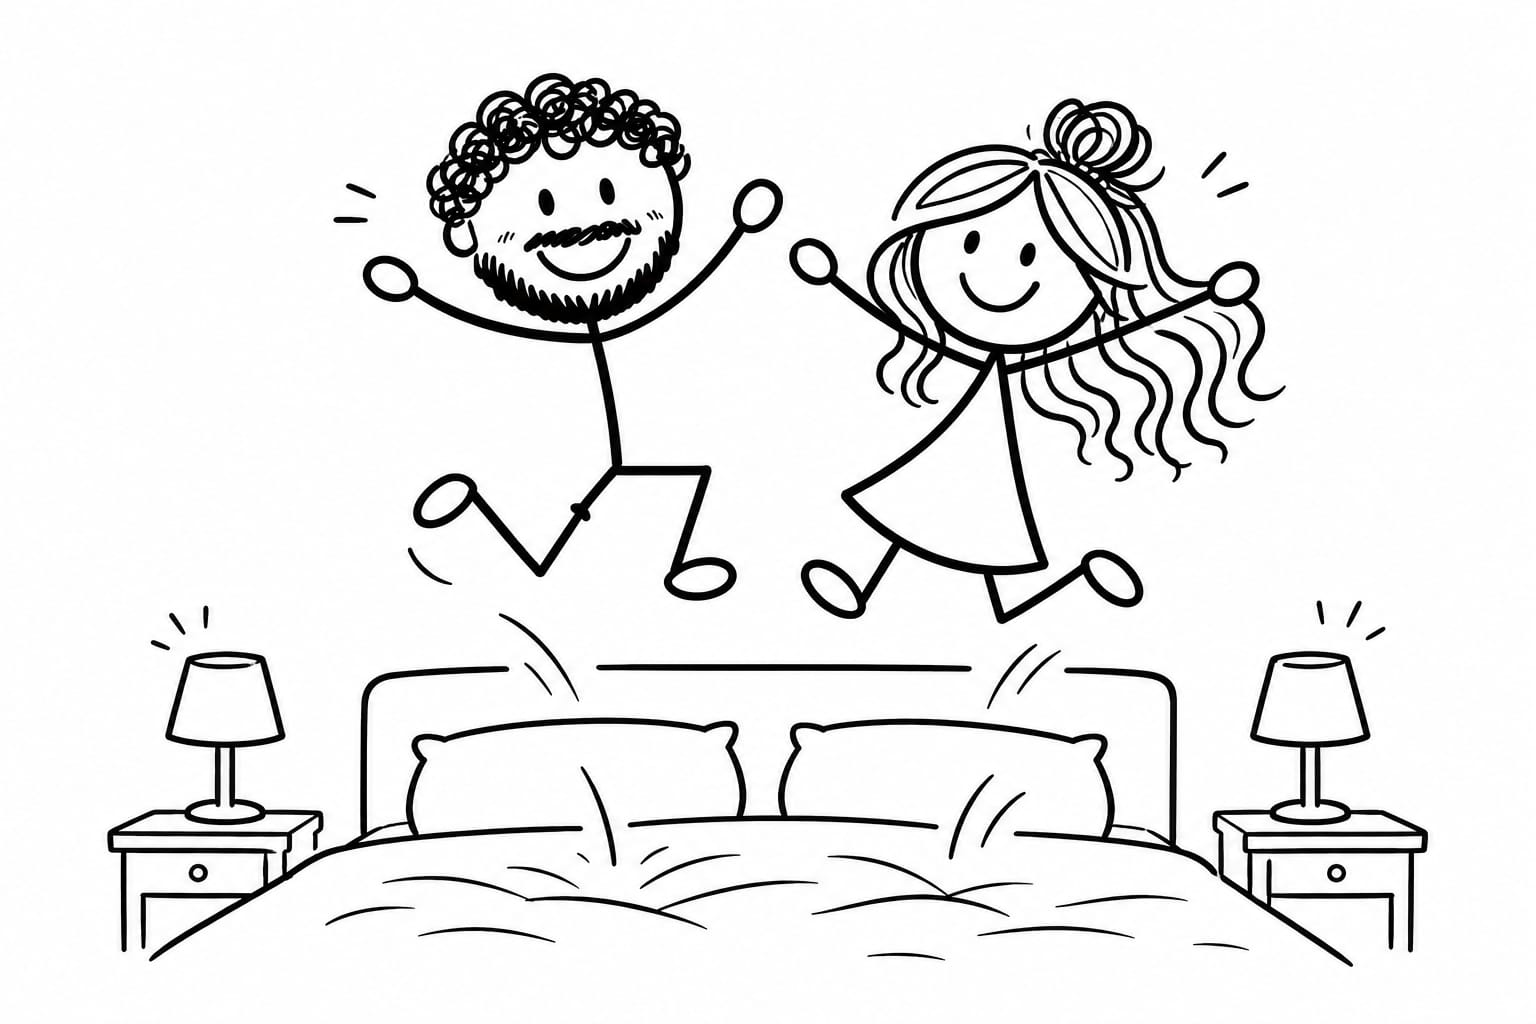
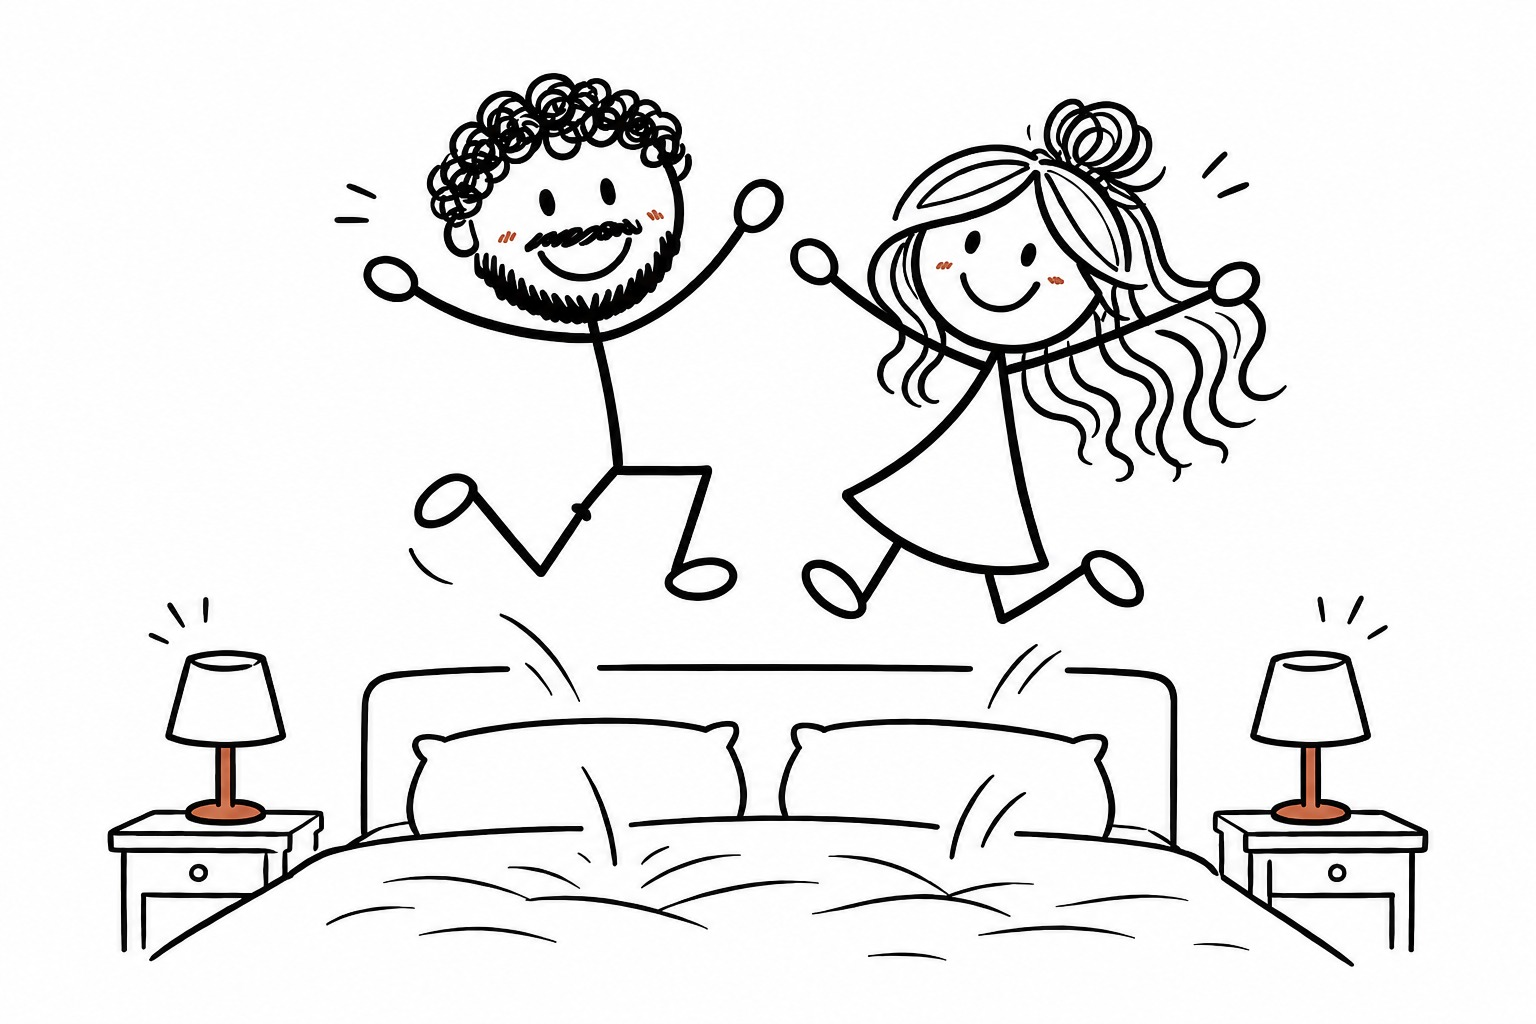
style: change an image, some texts, etc

diff --git a/index.html b/index.html
@@ -109,15 +109,15 @@
           </div>
           <div class="preboda-card">
             <img src="/images/preboda.jpeg" alt="Preboda" class="fl-card-img" />
-            <div class="preboda-time">18:30 – 21:30</div>
+            <div class="preboda-time">18:00 – 21:00</div>
             <!-- <div class="preboda-icon">🌅</div> -->
             <h4 class="preboda-title">Quedada en el Puerto de la Cruz</h4>
             <p class="preboda-desc">El día antes de la boda nos gustaría reunirnos para tomar algo juntos, charlar y
-              empezar a celebrar. Será un plan tranquilo y sin pretensiones, para llegar al gran día con ganas de
+              empezar a celebrar. Será un plan tranquilo y sin pretensiones para llegar al gran día con ganas de
               fiesta.</p>
             <div class="preboda-note">
               <span>📍</span>
-              <span>Lugar por confirmar · Puerto de la Cruz</span>
+              <span>El Puerto de la Cruz o alrededores</span>
             </div>
           </div>
         </div>
@@ -259,6 +259,45 @@
               web oficial →</a>
           </div>
         </div>
+        <div class="hotel-card">
+          <div class="hotel-info">
+            <div>
+              <h3>Hotel Tigaiga</h3>
+              <p class="hotel-stars">★★★★</p>
+            </div>
+          </div>
+          <div class="hotel-desc">
+            <a href="https://tigaiga.com/"
+              target="_blank" rel="noopener noreferrer" class="hotel-link">Ver
+              web oficial →</a>
+          </div>
+        </div>
+        <div class="hotel-card">
+          <div class="hotel-info">
+            <div>
+              <h3>Apartamentos Masaru</h3>
+              <p class="hotel-stars">★★★</p>
+            </div>
+          </div>
+          <div class="hotel-desc">
+            <a href="https://www.apartamentosmasaru.com/"
+              target="_blank" rel="noopener noreferrer" class="hotel-link">Ver
+              web oficial →</a>
+          </div>
+        </div>
+        <div class="hotel-card">
+          <div class="hotel-info">
+            <div>
+              <h3>Hotel RF San Borondón</h3>
+              <p class="hotel-stars">★★★</p>
+            </div>
+          </div>
+          <div class="hotel-desc">
+            <a href="https://www.hotelsanborondon.com/"
+              target="_blank" rel="noopener noreferrer" class="hotel-link">Ver
+              web oficial →</a>
+          </div>
+        </div>
       </div>
     </div>
   </section>
@@ -312,9 +351,6 @@
             <div class="carousel-slide">
               <img src="/images/carousel-10.jpeg" alt="Foto 10" loading="lazy" />
             </div>
-            <div class="carousel-slide">
-              <img src="/images/carousel-11.jpeg" alt="Foto 11" loading="lazy" />
-            </div>
           </div>
         </div>
         <button class="carousel-btn carousel-prev" id="carouselPrev" aria-label="Anterior">&#8592;</button>
@@ -329,9 +365,9 @@
     <div class="section-inner">
       <!-- <span class="section-tag">Un detalle</span> -->
       <h2 class="section-title">Lista de bodas</h2>
-      <p class="section-intro">El mejor regalo es que nos acompañéis en un día tan especial. Sin embargo, si queréis ayudarnos para que nos vayamos muy lejos en nuestra luna de miel, aquí tenéis nuestro número de cuenta:</p>
+      <p class="section-intro">El mejor regalo es que nos acompañéis en un día tan especial. Sin embargo, si queréis ayudarnos a irnos muy lejos en nuestra luna de miel, aquí tenéis nuestro número de cuenta:</p>
 
-        <div class="gift-account">ES12 3456 7890 1234 5678 9012</div>
+        <div class="gift-account">ES46 1583 0001 1191 3638 4875</div>
     </div>
   </section>
 
@@ -341,7 +377,7 @@
       <span class="section-tag">Os esperamos</span>
       <h2 class="section-title">Confirmación de asistencia</h2>
       <img src="/images/formulario.jpeg" alt="Confirmación" class="rsvp-img" />
-      <p class="section-intro">Por favor, confirmad vuestra asistencia antes del 15 de agosto de 2026.
+      <p class="section-intro">Por favor, confirmad vuestra asistencia antes del <span style="font-weight: 700;">15 de agosto de 2026</span>.
       </p>
       <form class="rsvp-form" id="rsvpForm" novalidate>
         <div class="form-row">
